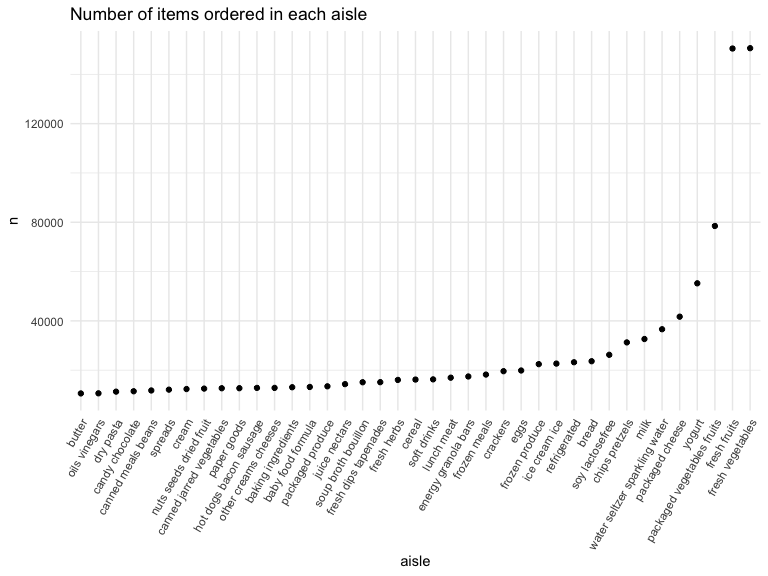
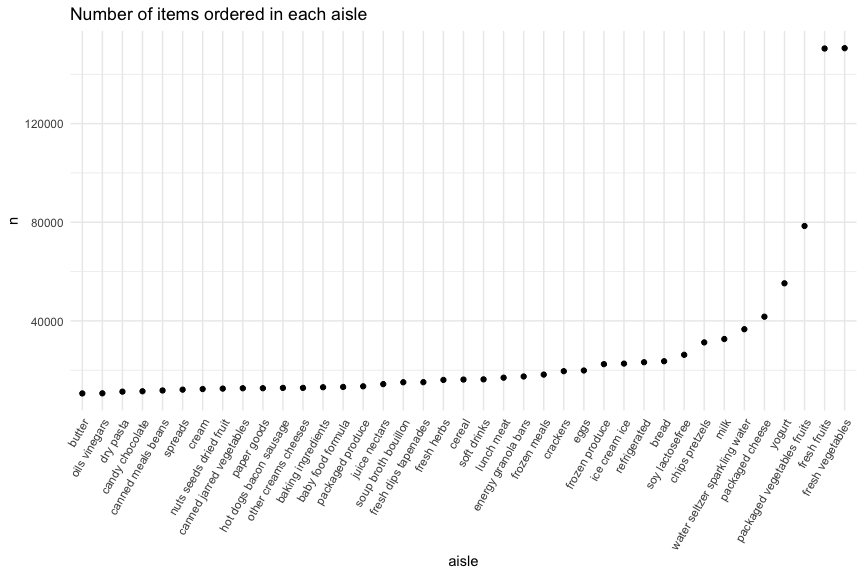
Problem 2--Boxplot

diff --git a/p8105_hw3_yh3676.md b/p8105_hw3_yh3676.md
@@ -27,7 +27,7 @@ library(p8105.datasets)
 knitr::opts_chunk$set(
     echo = TRUE,
     warning = FALSE,
-    fig.width = 8, 
+    fig.width = 9, 
   fig.height = 6,
   out.width = "90%"
 )
@@ -242,3 +242,20 @@ theme(legend.position = "right")
 Make a two-panel plot showing, for the years 2006, and 2010,
 distribution of data_value for responses (“Poor” to “Excellent”) among
 locations in NY State.
+
+``` r
+brfss_df |>
+  filter(state == "NY" , year %in% c(2006, 2010)) |>
+  ggplot(aes(x = response, y = data_value)) +
+  geom_boxplot() +
+  labs(title = "Distribution of data_value by Response in NY State",
+       x = "response",
+       y = "data_value") +
+  facet_grid(. ~ year) +
+  theme_bw()
+```
+
+<img src="p8105_hw3_yh3676_files/figure-gfm/unnamed-chunk-10-1.png" width="90%" />
+
+- It can be seen that there is a significant increase in the
+  `data_value` for `Very Good` response in NY State from 2006 to 2010.
